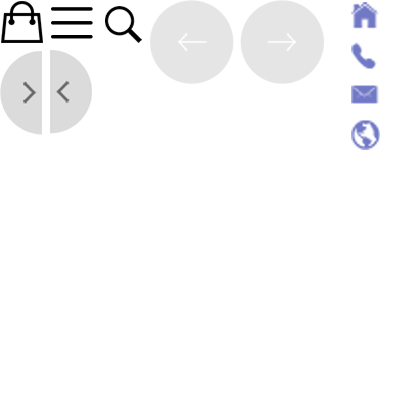
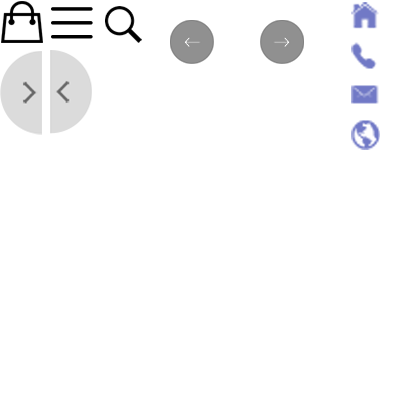
s

Changed region(s): [[0.36, 0.0, 0.81, 0.21]]

diff --git a/kidstown/index.html b/kidstown/index.html
@@ -39,30 +39,77 @@
             <div class="ovh"><img src="images/pic1.jpg"></div>
         </div>
     </div>
-    <a href="javascript:;" class="btn-prev" id="btnPrev1"><i class="icons icons-prev-circle"></i></a>
-    <a href="javascript:;" class="btn-next" id="btnNext1"><i class="icons icons-next-circle"></i></a>
+    <a href="javascript:;" class="btn-prev" id="btnPrev1" style="left: 10px;"><i class="icons icons-prev-circle"></i></a>
+    <a href="javascript:;" class="btn-next" id="btnNext1" style="right: 10px;"><i class="icons icons-next-circle"></i></a>
 </div>
 
 <div class="mt3"><img src="images/title1.png"> </div>
 <div class="frame mt3"><img src="images/pic2.jpg"> </div>
 
-<div class="frame clearfix mt8">
-    <div class="fl w50 prr10">
-        <a href="#"><img src="images/pic3.jpg"> </a>
+
+
+<div class="pr">
+    <div id="slider4" class="slider">
+        <div class="swipe-wrap2">
+            <div class="ovh">
+                <div class=" clearfix">
+                    <div class="fl w50 prr10">
+                        <a href="#"><img src="images/pic3.jpg"> </a>
+                    </div>
+                    <div class="fr w50 prl10">
+                        <div class="mrb20">
+                            <a href="#"><img src="images/pic4.jpg"> </a>
+                        </div>
+                        <div>
+                            <a href="#"><img src="images/pic5.jpg"> </a>
+                        </div>
+                    </div>
+                </div>
+            </div>
+            <div class="ovh">
+                <div class=" clearfix">
+                    <div class="fl w50 prr10">
+                        <a href="#"><img src="images/pic3.jpg"> </a>
+                    </div>
+                    <div class="fr w50 prl10">
+                        <div class="mrb20">
+                            <a href="#"><img src="images/pic4.jpg"> </a>
+                        </div>
+                        <div>
+                            <a href="#"><img src="images/pic5.jpg"> </a>
+                        </div>
+                    </div>
+                </div>
+            </div>
+            <div class="ovh">
+                <div class=" clearfix">
+                    <div class="fl w50 prr10">
+                        <a href="#"><img src="images/pic3.jpg"> </a>
+                    </div>
+                    <div class="fr w50 prl10">
+                        <div class="mrb20">
+                            <a href="#"><img src="images/pic4.jpg"> </a>
+                        </div>
+                        <div>
+                            <a href="#"><img src="images/pic5.jpg"> </a>
+                        </div>
+                    </div>
+                </div>
+            </div>
+        </div>
     </div>
-    <div class="fr w50 prl10">
-        <div class="mrb20">
-            <a href="#"><img src="images/pic4.jpg"> </a>
-        </div>
-        <div>
-            <a href="#"><img src="images/pic5.jpg"> </a>
-        </div>
+    <div class="type-swipe-tag2" id="typeSwipeTag2">
+        <ul>
+            <li class="active"></li>
+            <li></li>
+            <li></li>
+        </ul>
     </div>
 </div>
 
-<div class="mt10"><img src="images/title2.png"> </div>
+<div class="mt15"><img src="images/title2.png"> </div>
 <div class="frame">
-    <ul class="tag-list">
+    <ul class="tag-list" id="tagList">
         <li class="active"><a href="javascript:;">Filter - all</a> </li>
         <li><a href="javascript:;">BOYS</a> </li>
         <li><a href="javascript:;">Girls</a> </li>
@@ -186,11 +233,38 @@
                     </li>
                 </ul>
             </div>
+            <div class="ovh">
+                <ul class="pro-list clearfix pro-list2">
+                    <li>
+                        <a href="javascript:;"><img src="images/pic8.jpg"></a>
+                        <div class="info">
+                            <p>JACQUARD PRINT DRESS</p>
+                            <div>$24.00</div>
+                        </div>
+                        <div class="btns">
+                            <a href="javascript:;" class="active"><i class="icons icons-heart"></i></a>
+                            <a href="javascript:;"><i class="icons icons-shopcart"></i></a>
+                        </div>
+                    </li>
+                    <li>
+                        <a href="javascript:;"><img src="images/pic8.jpg"></a>
+                        <div class="info">
+                            <p>JACQUARD PRINT DRESS</p>
+                            <div>$24.00</div>
+                        </div>
+                        <div class="btns">
+                            <a href="javascript:;" class="active"><i class="icons icons-heart"></i></a>
+                            <a href="javascript:;"><i class="icons icons-shopcart"></i></a>
+                        </div>
+                    </li>
+                </ul>
+            </div>
         </div>
     </div>
-    <div class="type-swipe-tag">
+    <div class="type-swipe-tag" id="typeSwipeTag">
         <ul>
             <li class="active"></li>
+            <li></li>
             <li></li>
         </ul>
     </div>
@@ -290,7 +364,7 @@
 <div class="bottom-hint">INSTAGRAM FEED</div>
 <footer class="footer">
     <div class="clearfix mt5 mb5">
-        <div class="w50 fl pl4">
+        <div class="w100 fl pl4">
             <h3>关于米六</h3>
             <ul class="info-list">
                 <li><i class="icons icons-house"></i>福建省泉州市晋江市陈埭镇涵口鞋都路</li>
@@ -299,18 +373,18 @@
                 <li><i class="icons icons-earth"></i>www.cnmi6.com</li>
             </ul>
         </div>
-        <div class="w50 fl">
-            <h3>标签</h3>
-            <ul class="tags">
-                <li class="active">Girl clothing</li>
-                <li>Top</li>
-                <li>Collection</li>
-                <li>new</li>
-                <li>Unisex</li>
-                <li>Gallery</li>
-                <li>Online store</li>
-            </ul>
-        </div>
+        <!--<div class="w50 fl">-->
+            <!--<h3>标签</h3>-->
+            <!--<ul class="tags">-->
+                <!--<li class="active">Girl clothing</li>-->
+                <!--<li>Top</li>-->
+                <!--<li>Collection</li>-->
+                <!--<li>new</li>-->
+                <!--<li>Unisex</li>-->
+                <!--<li>Gallery</li>-->
+                <!--<li>Online store</li>-->
+            <!--</ul>-->
+        <!--</div>-->
     </div>
     <div><img src="images/footer.jpg"> </div>
 </footer>
@@ -322,6 +396,7 @@
         startSlide: 0,
         speed: 400,
         auto: 0,
+        isTouch:false,
         continuous: true,
         disableScroll: false,
         stopPropagation: false
@@ -334,24 +409,36 @@
     });
 
     //打开产品详情
+    var globalSelector = null;
     $(".pro-list li>a").on('click',function(){
+        if(globalSelector != null && globalSelector.hasClass('active')){
+            globalSelector.removeClass('active');
+        }
         if($(this).parent().hasClass('active')){
             $(this).parent().removeClass('active');
         }else{
             $(this).parent().addClass('active');
+            globalSelector = $(this).parent();
         }
     });
 
+    //分类切换
+    $("#tagList li").on('click',function(){
+        $(this).addClass('active').siblings('li').removeClass('active');
+    });
+
     //产品滑动
+    var slideIndex = 0;
     window.mySwipe2 = new Swipe(document.getElementById('slider2'), {
         startSlide: 0,
         speed: 400,
         auto: 0,
+        isTouch:false,
         continuous: true,
         disableScroll: false,
         stopPropagation: false,
         transitionEnd:function(index){
-            $(".type-swipe-tag li").eq(index).addClass('active').siblings('li').removeClass('active');
+            $("#typeSwipeTag li").eq(index).addClass('active').siblings('li').removeClass('active');
         }
     });
     $("#btnPrev2").on('click',function(){
@@ -366,6 +453,7 @@
         startSlide: 0,
         speed: 400,
         auto: 0,
+        isTouch:false,
         continuous: true,
         disableScroll: false,
         stopPropagation: false
@@ -375,5 +463,18 @@
     });
     $("#btnNext3").on('click',function(){
         mySwipe3.next();
+    });
+
+    window.mySwipe4 = new Swipe(document.getElementById('slider4'), {
+        startSlide: 0,
+        speed: 400,
+        auto: 0,
+        isTouch:true,
+        continuous: true,
+        disableScroll: false,
+        stopPropagation: false,
+        transitionEnd:function(index){
+            $("#typeSwipeTag2 li").eq(index).addClass('active').siblings('li').removeClass('active');
+        }
     });
 </script>

diff --git a/kidstown/js/swipe.js b/kidstown/js/swipe.js
@@ -148,6 +148,8 @@ function Swipe(container, options) {
 
     index = to;
     offloadFn(options.callback && options.callback(index, slides[index]));
+
+    options.transitionEnd && options.transitionEnd.call(event, index, slides[index]);
   }
 
   function move(index, dist, speed) {
@@ -278,8 +280,11 @@ function Swipe(container, options) {
       delta = {};
 
       // attach touchmove and touchend listeners
-      element.addEventListener('touchmove', this, false);
-      element.addEventListener('touchend', this, false);
+      if(options.isTouch){
+        element.addEventListener('touchmove', this, false);
+        element.addEventListener('touchend', this, false);
+      }
+
 
     },
     move: function(event) {
@@ -417,6 +422,7 @@ function Swipe(container, options) {
       }
 
       // kill touchmove and touchend event listeners until touchstart called again
+
       element.removeEventListener('touchmove', events, false)
       element.removeEventListener('touchend', events, false)
 
@@ -494,6 +500,7 @@ function Swipe(container, options) {
       stop();
 
       next();
+
 
     },
     stop: function() {

diff --git a/kidstown/css/layout.css b/kidstown/css/layout.css
@@ -67,6 +67,11 @@
 .type-swipe-tag li{ width: 0.5rem; height: 2px; background-color: #d1ebf6; display: inline-block;}
 .type-swipe-tag li.active{ background-color: #7179c6; }
 
+.type-swipe-tag2{ width: 100%; position: absolute; left: 0; bottom:-30px;}
+.type-swipe-tag2 ul{ text-align: center;}
+.type-swipe-tag2 li{ width: 10px;height: 10px; margin: 0 5px; border-radius: 50%; background-color: #d1ebf6; display: inline-block;}
+.type-swipe-tag2 li.active{ background-color: #7179c6; }
+
 .blog-list li{ width: 50%; float: left; padding-right: 0.1rem; margin-bottom: 0.2rem; position: relative;}
 .blog-list li:nth-child(2n){ padding-right: 0; padding-left: 0.1rem;}
 .blog-list li .date{ float: left; position: relative;}
